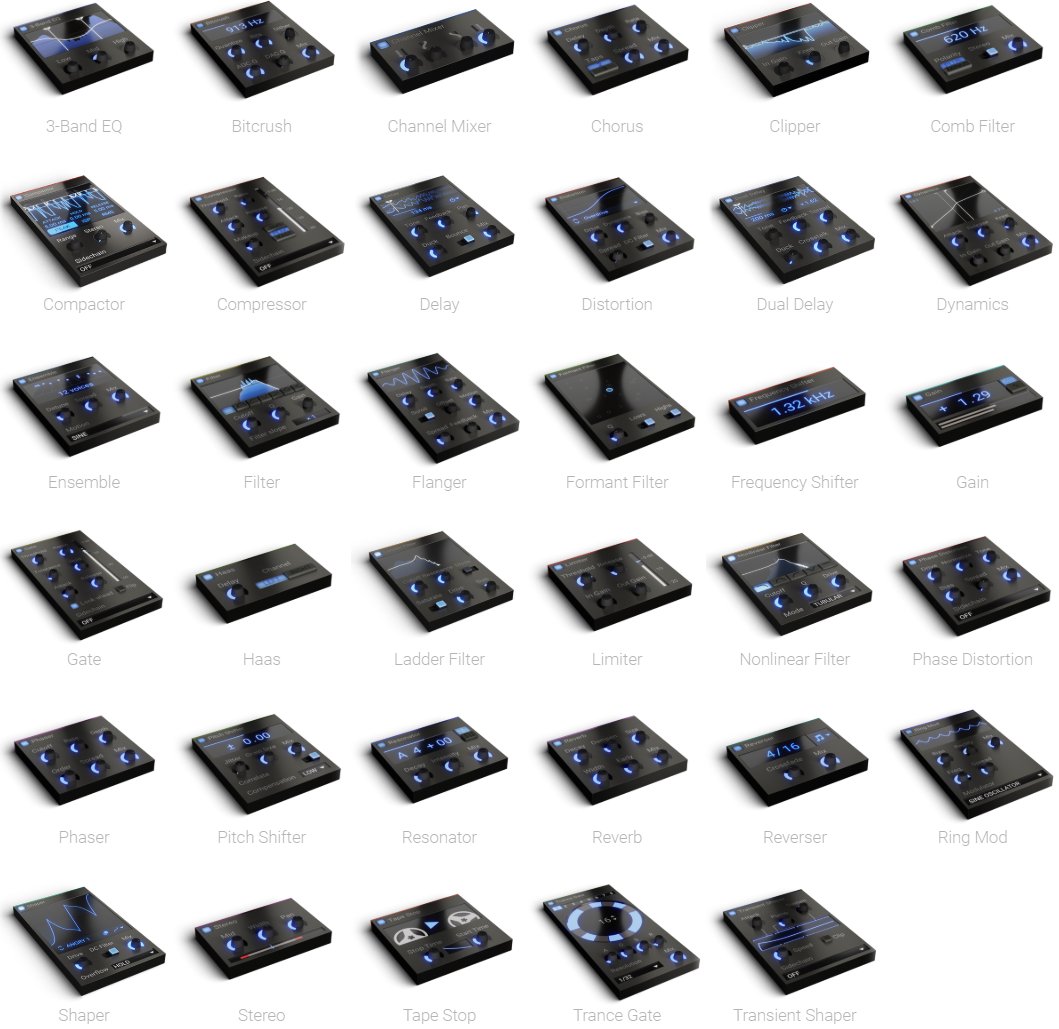
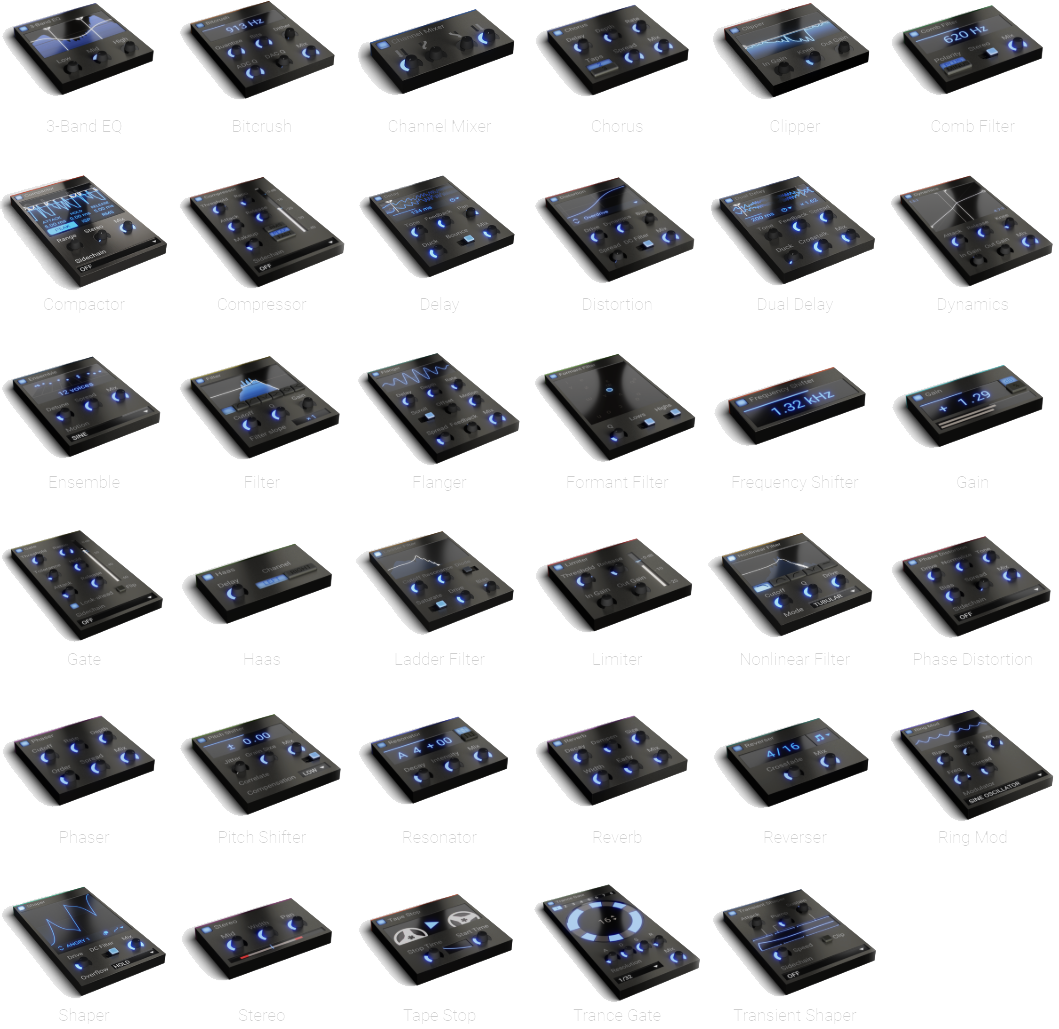
Site updated: 2026-08-13 20:22:38

diff --git a/2026/Recommended-free-plugins-for-muzik-producer/index.html b/2026/Recommended-free-plugins-for-muzik-producer/index.html
@@ -28,7 +28,7 @@
 <meta property="og:locale" content="zh_CN">
 <meta property="og:image" content="https://sn0wflakeqwq.github.io/imgs/Recommended-free-plugins-for-muzik-producer/cover.png">
 <meta property="article:published_time" content="2026-08-12T09:04:41.000Z">
-<meta property="article:modified_time" content="2026-08-13T05:03:38.091Z">
+<meta property="article:modified_time" content="2026-08-13T12:13:16.453Z">
 <meta property="article:author" content="Sn0wflake">
 <meta property="article:tag" content="编曲">
 <meta name="twitter:card" content="summary">
@@ -38,7 +38,7 @@
   
   
     <script type="application/ld+json">
-    {"@context":"https://schema.org","@type":"BlogPosting","headline":"编曲免费插件推荐","description":"推荐一些免费的插件","image":"https://sn0wflakeqwq.github.io/2026/Recommended-free-plugins-for-muzik-producer/imgs/Recommended-free-plugins-for-muzik-producer/cover.png","author":{"@type":"Person","name":"Sn0wflake"},"publisher":{"@type":"Organization","name":"Sn0wflake's Blog","logo":{"@type":"ImageObject","url":"https://sn0wflakeqwq.github.io/imgs/Sn0wflake-780x-Circle.png"}},"datePublished":"2026-08-12T09:04:41.000Z","dateModified":"2026-08-13T05:03:38.091Z","mainEntityOfPage":{"@type":"WebPage","@id":"https://sn0wflakeqwq.github.io/2026/Recommended-free-plugins-for-muzik-producer/"}}
+    {"@context":"https://schema.org","@type":"BlogPosting","headline":"编曲免费插件推荐","description":"推荐一些免费的插件","image":"https://sn0wflakeqwq.github.io/2026/Recommended-free-plugins-for-muzik-producer/imgs/Recommended-free-plugins-for-muzik-producer/cover.png","author":{"@type":"Person","name":"Sn0wflake"},"publisher":{"@type":"Organization","name":"Sn0wflake's Blog","logo":{"@type":"ImageObject","url":"https://sn0wflakeqwq.github.io/imgs/Sn0wflake-780x-Circle.png"}},"datePublished":"2026-08-12T09:04:41.000Z","dateModified":"2026-08-13T12:13:16.453Z","mainEntityOfPage":{"@type":"WebPage","@id":"https://sn0wflakeqwq.github.io/2026/Recommended-free-plugins-for-muzik-producer/"}}
     </script>
   
   <!-- 关键 CSS 预加载 -->
@@ -271,7 +271,7 @@
 <p>官网: <a target="_blank" rel="noopener" href="https://www.acustica-audio.com/shop/products/COFFEEFREE">acustica-audio.com/shop/products/COFFEEFREE</a></p>
 <p>Tag: #FX, #Dynamics, #EQ, #AnalogModeling</p>
 <p>一个 Pultec 风格模拟 EQ，适合大范围调整，例如 Bus 轨道</p>
-<p><img src="/imgs/Recommended-free-plugins-for-muzik-producer/AQW_Coffee_Pun.webp" alt="Coffee The Pun 官网图"></p>
+<p><img src="/imgs/Recommended-free-plugins-for-muzik-producer/AQW_Coffee_Pun.png" alt="Coffee The Pun 官网图"></p>
 <p>AA 其他免费插件可以前往<a target="_blank" rel="noopener" href="https://www.acustica-audio.com/shop?categories=price-0">官网</a>查看</p>
 <h1>Ambisonar</h1>
 <h2 id="ambisonar-prism">Ambisonar Prism</h2>
@@ -285,37 +285,37 @@
 <p>Tag: #FX, #Dynamics, #EQ, #AnalogModeling</p>
 <p>Pultec EQ 模拟，适合大范围调整，例如 Bus 轨道</p>
 <p>感觉不如 UAD 之前限免的 Pultec Collection</p>
-<p><img src="/imgs/Recommended-free-plugins-for-muzik-producer/POORTEC.webp" alt="POORTEC 官方图"></p>
+<p><img src="/imgs/Recommended-free-plugins-for-muzik-producer/POORTEC.png" alt="POORTEC 官方图"></p>
 <h2 id="ssq">SSQ</h2>
 <p>官方: <a target="_blank" rel="noopener" href="https://www.patreon.com/analogobsession/posts/ssq-54598496">patreon.com/analogobsession/posts/ssq-54598496</a></p>
 <p>Tag: #FX, #Dynamics, #EQ, #Mastering, #AnalogModeling</p>
 <p>SSL 4000 上的 EQ，经典模拟</p>
-<p><img src="/imgs/Recommended-free-plugins-for-muzik-producer/SSQ.webp" alt="SSQ 官方图"></p>
+<p><img src="/imgs/Recommended-free-plugins-for-muzik-producer/SSQ.png" alt="SSQ 官方图"></p>
 <h2 id="busterse">BUSTERse</h2>
 <p>官方: <a target="_blank" rel="noopener" href="https://www.patreon.com/analogobsession/posts/busterse-42658623">patreon.com/analogobsession/posts/busterse-42658623</a></p>
 <p>Tag: #FX, #Dynamics, #Compressor, #Mastering, #AnalogModeling</p>
 <p>SSL 4000 Bus Compressor 模拟，经典总线 VCA 胶水压缩，可以把各种声音黏在一起</p>
-<p><img src="/imgs/Recommended-free-plugins-for-muzik-producer/BUSTERse.webp" alt="BUSTERse 官方图"></p>
+<p><img src="/imgs/Recommended-free-plugins-for-muzik-producer/BUSTERse.png" alt="BUSTERse 官方图"></p>
 <h2 id="fet-bundle">FET Bundle</h2>
 <p>官方: <a target="_blank" rel="noopener" href="https://www.patreon.com/analogobsession/posts/fet-bundle-51962024">patreon.com/analogobsession/posts/fet-bundle-51962024</a></p>
 <p>Tag: #FX, #Dynamics, #Compressor, #VocalMixing, #AnalogModeling</p>
 <p>经典 FET-1176 压缩模拟，启动释放时间快，可以塑造音头，人声混音中用于处理瞬态</p>
-<p><img src="/imgs/Recommended-free-plugins-for-muzik-producer/FetBundle.webp" alt="FET Bundle 官方图"></p>
+<p><img src="/imgs/Recommended-free-plugins-for-muzik-producer/FetBundle.png" alt="FET Bundle 官方图"></p>
 <h2 id="lala">LALA</h2>
 <p>官方: <a target="_blank" rel="noopener" href="https://www.patreon.com/analogobsession/posts/lala-36128829">patreon.com/analogobsession/posts/lala-36128829</a></p>
 <p>Tag: #FX, #Saturation, #Dynamics, #Compressor, #VocalMixing, #AnalogModeling</p>
 <p>经典光学压缩 LA-2A 模拟，启动释放较慢，适合处理 Vocal 整体动态，使声音更加柔和，也可以与 1176 串联</p>
-<p><img src="/imgs/Recommended-free-plugins-for-muzik-producer/LALA.webp" alt="LALA 官方图"></p>
+<p><img src="/imgs/Recommended-free-plugins-for-muzik-producer/LALA.png" alt="LALA 官方图"></p>
 <h2 id="laea">LAEA</h2>
 <p>官方: <a target="_blank" rel="noopener" href="https://www.patreon.com/analogobsession/posts/laea-153437904">patreon.com/analogobsession/posts/laea-153437904</a></p>
 <p>Tag: #FX, #Saturation, #Dynamics, #Compressor, #VocalMixing, #AnalogModeling</p>
 <p>较快的光学压缩 LA-3A 模拟，可以混吉他、鼓、人声等</p>
-<p><img src="/imgs/Recommended-free-plugins-for-muzik-producer/LAEA.webp" alt="LAEA 官方图"></p>
+<p><img src="/imgs/Recommended-free-plugins-for-muzik-producer/LAEA.png" alt="LAEA 官方图"></p>
 <h2 id="dbcomp">dBComp</h2>
 <p>官方: <a target="_blank" rel="noopener" href="https://www.patreon.com/analogobsession/posts/dbcomp-56933944">patreon.com/analogobsession/posts/dbcomp-56933944</a></p>
 <p>Tag: #FX, #Saturation, #Dynamics, #Compressor, #Limiter, #AnalogModeling</p>
 <p>一个 VCA 压缩 dbx 160 模拟，适合混鼓</p>
-<p><img src="/imgs/Recommended-free-plugins-for-muzik-producer/dBComp.webp" alt="dbComp 官方图"></p>
+<p><img src="/imgs/Recommended-free-plugins-for-muzik-producer/dBComp.png" alt="dbComp 官方图"></p>
 <h1>Bertom Audio</h1>
 <h2 id="denoiser-classic">Denoiser Classic</h2>
 <p>官网: <a target="_blank" rel="noopener" href="https://www.bertomaudio.com/denoiser-classic.html">bertomaudio.com/denoiser-classic.html</a></p>
@@ -361,12 +361,12 @@
 <p>官网: <a target="_blank" rel="noopener" href="https://iisaacbeats.cn/?p=spectrumtag">iisaacbeats.cn/?p=spectrumtag</a></p>
 <p>Tag: #FX, #Creative</p>
 <p>可以制作水印的奇妙插件</p>
-<p><img src="/imgs/Recommended-free-plugins-for-muzik-producer/spectrumtag.webp" alt="SpectrumTag 官网图"></p>
+<p><img src="/imgs/Recommended-free-plugins-for-muzik-producer/spectrumtag.png" alt="SpectrumTag 官网图"></p>
 <h2 id="y2k-meter">Y2K Meter</h2>
 <p>官网: <a target="_blank" rel="noopener" href="https://iisaacbeats.cn/?p=y2k">iisaacbeats.cn/?p=y2k</a></p>
 <p>Tag: #FX, #Visual, #Analyzer</p>
 <p>神作，观赏性很高的一个仪表，实用性稍微差了点不如 Minimeters</p>
-<p><img src="/imgs/Recommended-free-plugins-for-muzik-producer/UI_y2k.webp" alt="Y2K 官网图"></p>
+<p><img src="/imgs/Recommended-free-plugins-for-muzik-producer/UI_y2k.png" alt="Y2K 官网图"></p>
 <h1>illformed</h1>
 <p><a target="_blank" rel="noopener" href="https://illformed.com/memorial"><em>In loving memory of Kieran Foster — illformed / dblue / MaDHaTTeR (1979–2026). Glitch² is now free and available as VST3 plugin.</em></a></p>
 <h2 id="glitch-2">Glitch 2</h2>
@@ -388,7 +388,7 @@
 <h2 id="ozone-imager-2">Ozone Imager 2</h2>
 <p>官网: <a target="_blank" rel="noopener" href="https://www.izotope.com/products/ozone-imager">izotope.com/products/ozone-imager</a></p>
 <p>Tag: #FX, #Spatialization, #Visual, #Analyzer</p>
-<p><img src="/imgs/Recommended-free-plugins-for-muzik-producer/ozone-imager.webp" alt="Ozone Imager 2 官网图"></p>
+<p><img src="/imgs/Recommended-free-plugins-for-muzik-producer/ozone-imager.png" alt="Ozone Imager 2 官网图"></p>
 <h2 id="vinyl">Vinyl</h2>
 <p>官网: <a target="_blank" rel="noopener" href="https://www.izotope.com/products/vinyl">izotope.com/products/vinyl</a></p>
 <p>Tag: #FX, #Distortion, #Lo-Fi, #Creative</p>
@@ -398,7 +398,7 @@
 <p>官网: <a target="_blank" rel="noopener" href="https://www.izotope.com/products/trash-lite">izotope.com/products/trash-lite</a></p>
 <p>Tag: #FX, #Distortion, #Creative</p>
 <p><s>一点同位素垃圾</s> 效果还不错</p>
-<p><img src="/imgs/Recommended-free-plugins-for-muzik-producer/trash-lite.webp" alt="Trash Lite 官网图"></p>
+<p><img src="/imgs/Recommended-free-plugins-for-muzik-producer/trash-lite.png" alt="Trash Lite 官网图"></p>
 <h1>Kilohearts</h1>
 <h2 id="kilohearts-essentials">Kilohearts Essentials</h2>
 <p>官网: <a target="_blank" rel="noopener" href="https://kilohearts.com/products/kilohearts_essentials">kilohearts.com/products/kilohearts_essentials</a></p>
@@ -525,7 +525,7 @@
 <p>官网: <a target="_blank" rel="noopener" href="https://youlean.co/youlean-loudness-meter">youlean.co/youlean-loudness-meter</a></p>
 <p>Tag: #FX, #Visual, #Analyzer</p>
 <p>一款免费的响度表，还算好用</p>
-<p><img src="/imgs/Recommended-plugins-for-muzik-producer-1/img57.webp" alt="Youlean Loudness Meter 2 官网图"></p>
+<p><img src="/imgs/Recommended-plugins-for-muzik-producer-1/img57.png" alt="Youlean Loudness Meter 2 官网图"></p>
 <h1>ZL Audio</h1>
 <h2 id="zl-equalizer-2">ZL Equalizer 2</h2>
 <p>官网: <a target="_blank" rel="noopener" href="https://zl-audio.github.io/zh-cn/plugins/zlequalizer2">zl-audio.github.io/zh-cn/plugins/zlequalizer2</a></p>
@@ -582,7 +582,7 @@
                     <a class="tag-none-link" href="/tags/%E7%BC%96%E6%9B%B2/" rel="tag">编曲</a>
                 </div>
                 <div class="pull-date">
-                    <time datetime="2026-08-13T05:03:38.091Z" itemprop="dateModified">最后编辑：2026-08-13</time>
+                    <time datetime="2026-08-13T12:13:16.453Z" itemprop="dateModified">最后编辑：2026-08-13</time>
                 </div>
             </div>
         </footer>
